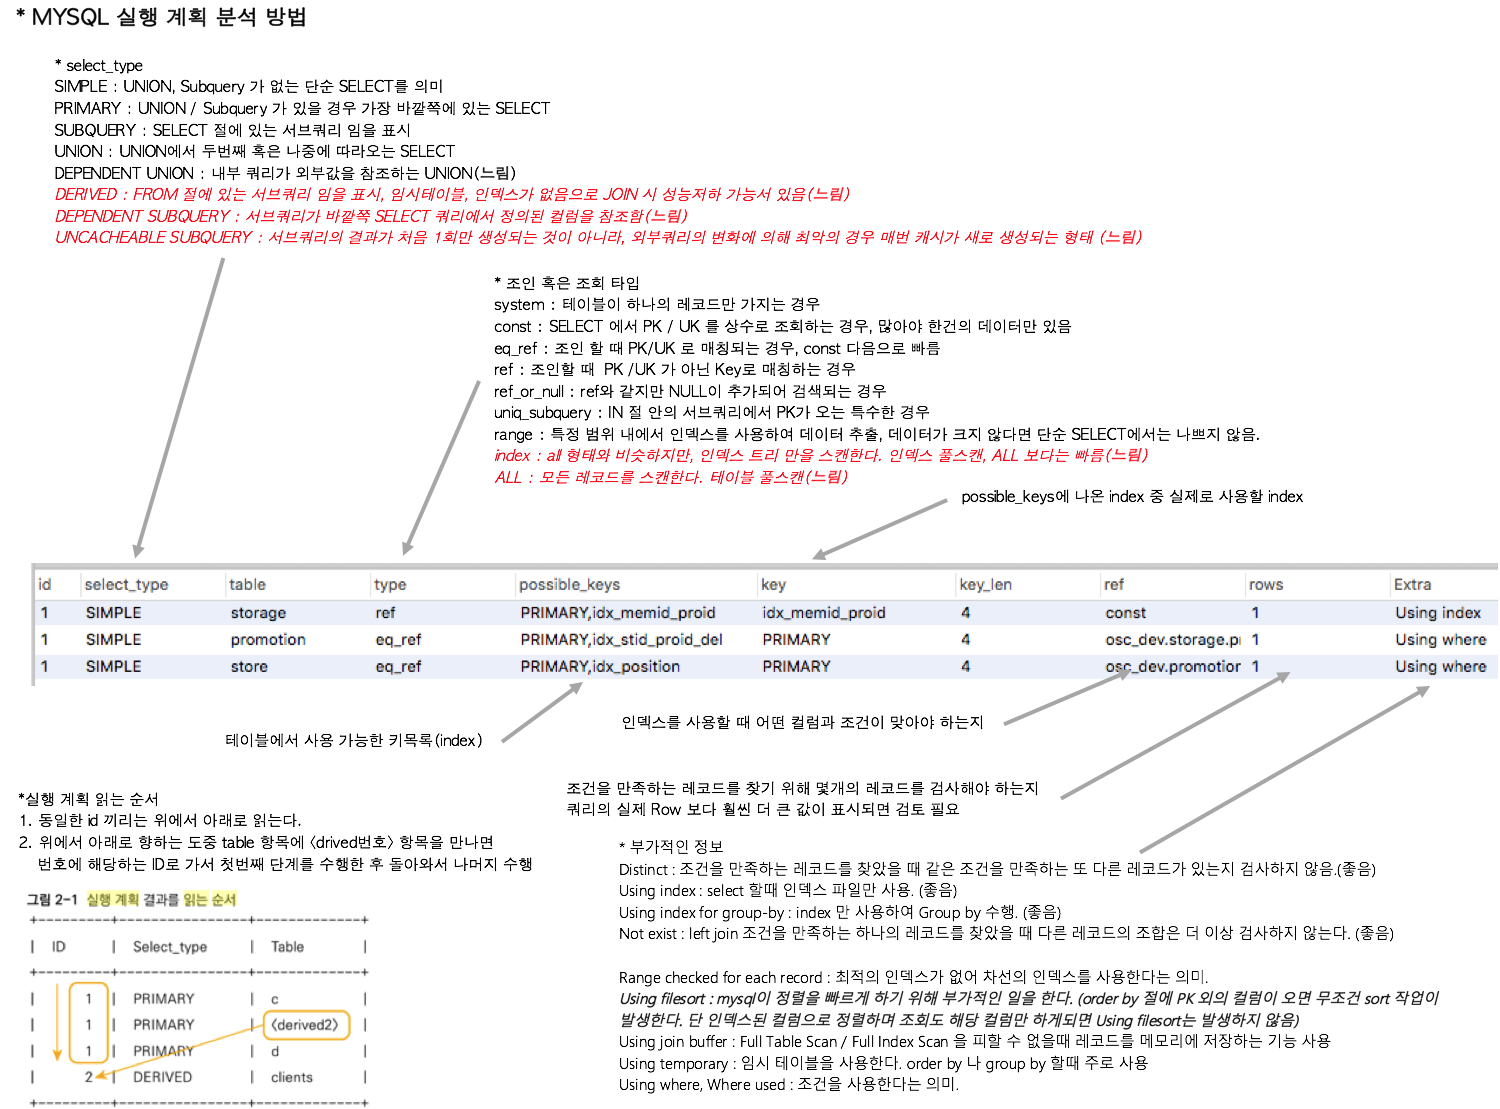
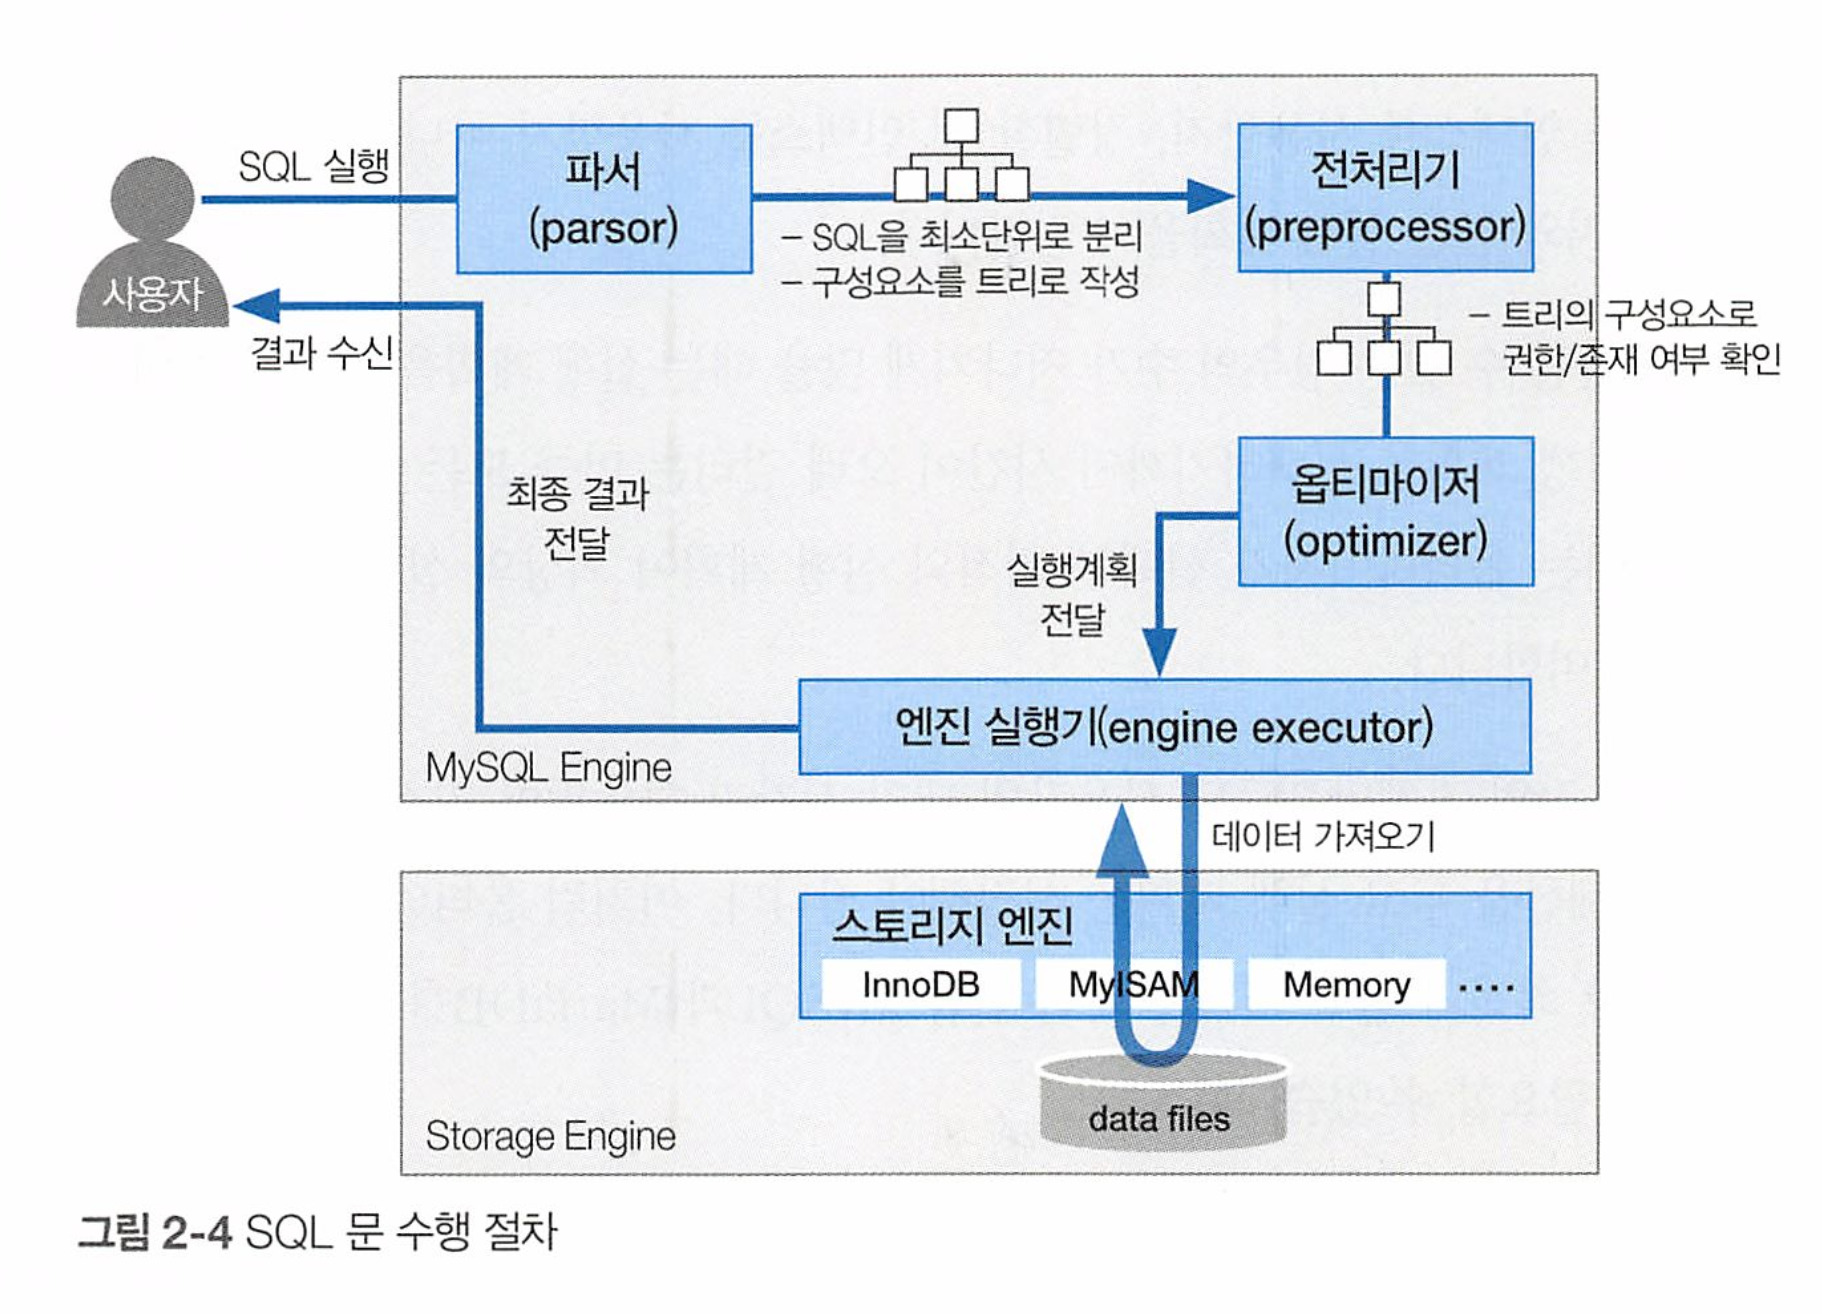
mysql > 실행계획 정리

Changed region(s): [[0.0, 0.0307, 1.0, 1.0], [0.0, 0.0, 0.2147, 0.0307], [0.828, 0.8278, 0.92, 0.8584]]

diff --git a/mysql/execution-plan/README.md b/mysql/execution-plan/README.md
@@ -1,91 +1,36 @@
 # Execution Plan
+
 ```
 @author: suktae.choi
-- http://devse.tistory.com/entry/MYSQL-%EC%8B%A4%ED%96%89%EA%B3%84%ED%9A%8D-%EB%B6%84%EC%84%9D-%EB%B0%A9%EB%B2%95-%EC%9A%94%EC%95%BD
 - https://12bme.tistory.com/73?category=682920
 ```
 
-## 통계 정보
-
-MySQL 5.5 이전까지는 통계정보를 메모리에 저장했지만, 이후 부터는 테이블에 저장해서 영속적으로 통계정보를 관리합니다.
-
-> 재시작시 통계가 초기화되서 실행계획이 잘못 선택되는 문제점 해결
-
-다만 통계정보는 대략적인 정보만 저장합니다:
-
-- 테이블의 `전체 record 개수`
-- `인덱스의 유니크한 값의 개수` (== distinct 한 개수를 의미)
-
-아래의 쿼리가 수행되면 통계정보 기반으로는 10개의 record 가 나올것으로 예측합니다.
-
-```sql
-# record: 1000개, uniqueness: 100개 (== last_name 인덱스의 group by 개수)
-selct * from order where last_name = 'lee';
-```
-
-하지만 평균값이고 실제 데이터의 분포와는 다르므로 정확한 예측을 할 수 없습니다.
-
-## 히스토그램
-
-테이블의 표준분포를 알고 있어서 좀 더 정확한 예측이 가능합니다
-
-> 정확히는 각 범위 (bucket) 구간마다 레코드개수/유니크개수 의 정보를 생성해서 대략적인 분포도를 만듬
-
-## Index dive
-
-실행계획을 생성할때 조건절에 있는 인덱스의 B-Tree 를 샘플링해서 보고 대략적인 레코드의 개수를 파악하는 것을 의미합니다.
-
-위의 통계/히스토그램과는 다른 개념으로
-
-- 통계/히스토그램: 이미 만들어진 정보 기반
-- 인덱스 다이브: 실시간으로 B-Tree 를 샘플링해서 수집 및 활용
-
-의 차이가 있습니다. 현재 MySQL 은 **인덱스컬럼이 조건에 있다면 항상 Index dive 로 동작**하고 인덱스가 없는 컬럼의 분포도를 참조할때는 히스토그램/통계를 사용합니다
-
-> B-Tree 를 직접 보는게 좀 더 정확한 정보이기도 하고 샘플링하므로 performance impact 적음
-
-## 실행 계획
-
-실행계획에 표시되는 각 칼럼의 의미는 [LINK](https://zzang9ha.tistory.com/436) 로 대체합니다.
-
-- 통계/히스토그램 기반으로 예측된 실행계획
-  - `EXPLAIN FORMAT=TREE ...` 으로 출력포맷을 변경하면 DEPTH 가 포함되어 실제 실행된 순서를 알 수 있습니다
-
-```sql
-EXPLAIN SELECT * FROM employee WHERE emp_no BETWEEN 100001 AND 200000;
-
-# 결과
-+----+-------------+--------+------------+-------+---------------+---------+---------+------+-------+----------+-------------+
-| id | select_type | table  | partitions | type  | possible_keys | key     | key_len | ref  | rows  | filtered | Extra       |
-+----+-------------+--------+------------+-------+---------------+---------+---------+------+-------+----------+-------------+
-|  1 | SIMPLE      | employee   | NULL       | range | PRIMARY       | PRIMARY | 4       | NULL | 20080 |   100.00 | Using where |
-+----+-------------+--------+------------+-------+---------------+---------+---------+------+-------+----------+-------------+
-1 row in set, 1 warning (0.00 sec)
-```
-
-- 인덱스다이브 기반으로 실제 연산된 실행계획
-
-```sql
-EXPLAIN ANALYZE SELECT * FROM employee WHERE emp_no BETWEEN 100001 AND 200000;
-
-+--------------------------------------------------------------------------------------------------------------------------------------------------------------------------------------------------------------------------------------------------------------------------------------------------------------+
-| EXPLAIN                                                                                                                                                                                                                                                                                                      |
-+--------------------------------------------------------------------------------------------------------------------------------------------------------------------------------------------------------------------------------------------------------------------------------------------------------------+
-| -> Filter: (`employee`.`emp_no` between 100001 and 200000)  (cost=4021.24 rows=20080) (actual time=0.066..209.340 rows=10025 loops=1)
-  -> Index range scan on employee using PRIMARY over (100001 <= emp_no <= 200000)  (cost=4021.24 rows=20080) (actual time=0.035..77.344 rows=10025 loops=1)|
-+--------------------------------------------------------------------------------------------------------------------------------------------------------------------------------------------------------------------------------------------------------------------------------------------------------------+
-```
-
-***
-
+## 쿼리 실행
 <img src="1.png">
 
+- `파서`
+  - 쿼리 구문을 토큰으로 분리해 트리 구조로 만드는 작업을 수행합니다. (문법 오류는 이 과정에서 발견)
+- `전처리기`
+  - 파서 트리의 구성요로 테이블/컬럼/권한 여부 등을 확인합니다
+- `옵티마이저`
+  - 입력된 SQL 을 가장 효율적으로 처리 할 수 있도록 방법을 결정합니다. 즉 `실행계획을 작성하는 단계` 입니다.
+- `실행 엔진`
+  - 핸들러와 통신하면서 실제 데이터 가져옵니다. 즉, `만들어진 실행 계획대로 핸들러에게 요청해서 받은 결과를 또 다른 핸들러 요청의 입력으로 연결하는 역할을 수행` 합니다.
+- 스토리지 엔진 (핸들러. InnoDB)
+  - MySQL 서버의 가장 밑단에서 실행 엔진의 요청에 따라 데이터를 디스크로 저장하고 디스크로부터 읽어옵니다. 즉 `실질적인 IO 를 수행합니다.`
+
+## 결과 분석
+
+각 칼럼의 의미는 [LINK](https://0soo.tistory.com/235) 로 대체합니다.
+
+<img src="2.png">
+
 - key_len
-  - key 칼럼에 표시된 인덱스의 길이를 표시합니다
-  - compound-index 인 경우 key_len 을 통해 어디까지 인덱스가 사용됐는지 알 수 있습니다
-  - 그리고 nullable 칼럼은 null 인지 아닌지 저장하기 위한 1 byte 가 추가로 사용됩니다 (인덱스 뿐만 아니라 모든 칼럼에 해당함)
+    - key 칼럼에 표시된 인덱스의 길이를 표시합니다
+    - compound-index 인 경우 key_len 을 통해 어디까지 인덱스가 사용됐는지 알 수 있습니다
+    - 그리고 nullable 칼럼은 null 인지 아닌지 저장하기 위한 1 byte 가 추가로 사용됩니다 (인덱스 뿐만 아니라 모든 칼럼에 해당함)
 - rows
-  - 실행계획이 key 을 사용했을때 리턴 될거라고 `예측한 레코드 개수`
+    - 실행계획이 key 을 사용했을때 리턴 될거라고 `예측한 레코드 개수`
 - filtered
-  - rows 로 예측된 개수에서 실제 리턴된 레코드의 비율
-  - rows=100, filtered=20 => 100 * 0.2% == 20개 가 실제 레코드의 개수 입니다
+    - rows 로 예측된 개수에서 실제 리턴된 레코드의 비율
+    - rows=100, filtered=20 => 100 * 0.2% == 20개 가 실제 레코드의 개수 입니다

diff --git a/mysql/index/README.md b/mysql/index/README.md
@@ -10,8 +10,8 @@
 인덱스는 수정 (CUD) 성능은 희생하고, 조회 (R) 속도를 높이는 기능입니다.
 
 ## 알고리즘
-### B-Tree
-B-Tree 는 불균형이 아니라면 대부분의 select 에 비슷한  응답 속도를 보장합니다.
+### B+Tree
+B+Tree 는 불균형이 아니라면 대부분의 select 에 비슷한  응답 속도를 보장합니다.
 
 > 즉 Tree depth deeper means 조회속도가 느려짐을 의미합니다. (일반적으로 5-depth 미만 ) 
 
